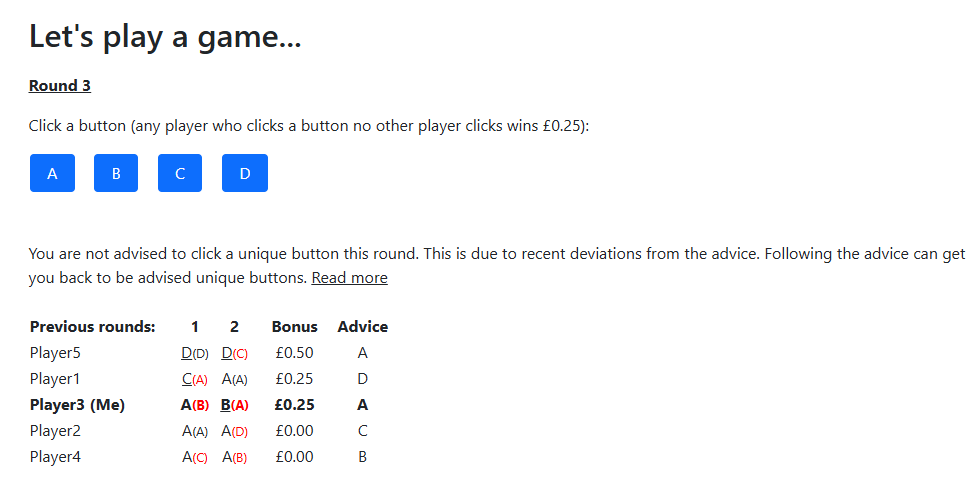
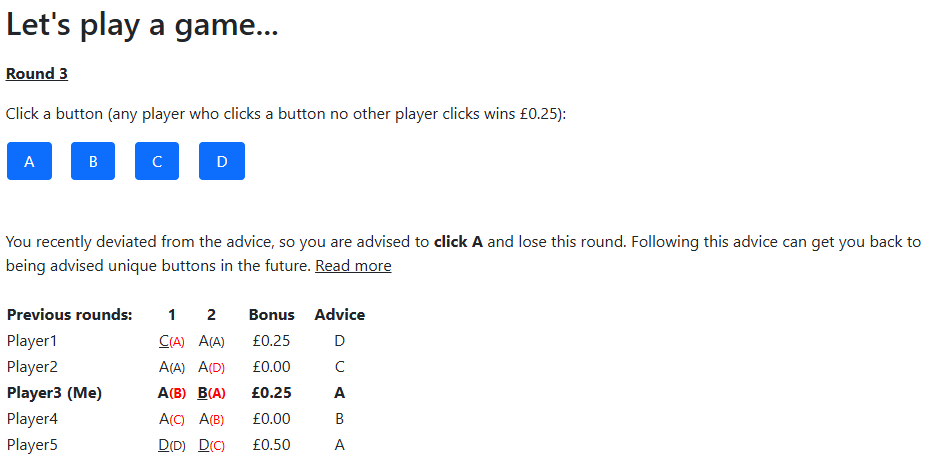
Add turntaking column

diff --git a/Instructions/Instructions.html b/Instructions/Instructions.html
@@ -36,8 +36,19 @@
     In addition, an amount of money is shown next to each player. This reflects the accumulated bonus earned by each player up to (but not including) the current round, which is round 3 now. For example, an accumulated bonus of &pound;0.25 displays for Player 3 because Player 3 has won one round thus far (Player 3 was <i>not</i> the only player to pick A in round 1 but <i>was</i> the only player to pick B in round 2).
 </p>
 <p>
-    Finally, advice will be offered until round 21, as in the picture above, suggesting a button for each player to pick next. The advice is generated by an algorithmic strategy called "turn-taking", which takes the full history of play into account. Why do we display this as advice? In a competition among strategies, which ran many plausible strategies against each other in simulations, "turn-taking" performed very well against all other strategies. Furthermore, among players following this strategy, it achieves the highest possible aggregate payoff and distributes payoffs evenly, minimizing inequality. It performs well against other strategies because it learns from deviations and excludes deviants from its optimization, thereby punishing them. It forgives deviations after a while, which helps overall performance as well.
-Ultimately, your personal success will depend upon what you and the other players choose. In the screenshot above, for example, if all players had followed the advice, then Players 3-5 all would have won round 1.
+    Until round 21, the game will provide <b>advice</b> about which button to choose next for each player, as shown in the image above. The advice is designed to help players take turns winning. Because only up to three players can win in any round, the system recommends different players to win in different rounds. In the example above, Players 3 to 5 were advised to win in round 1. The system keeps track of previous rounds to make sure opportunities to win are shared fairly over time. It also takes into account whether players have followed the advice in the recent past. If a player has ignored the advice, they can improve their standing for future rounds by following the advice and losing for a few rounds. The advice is only a recommendation. Your final outcome will depend on the choices made by you and the other players.
+</p>
+<p>
+    <b>Why do we provide this advice?</b> When we tested several plausible strategies against each other, this one produced the strongest incentives for players to stay with it rather
+than try another strategy. Our research therefore suggests that following this advice is the most effective way to maximize your personal bonus.
+</p>
+<p>
+    <b>How does the advice work in detail? (Read optionally)</b> The system keeps track of two measures: 
+<ul>
+  <li><b>Owed</b>: How much priority you have for a future win. This value decreases when you win.</li>
+  <li><b>Deviated</b>: How closely you have followed previous advice recently. This value decreases when you follow the recommendation.</li>
+</ul>
+In each round, the system recommends winning opportunities to players who have the highest priority and who have generally followed the advice. If you would like more detail, click "Read more" in the round. That will show the calculations used by the system, including all players' current "Owed" and "Deviated" values.
 </p>
 <p>
     <i>Note: The "Previous rounds" table displays information only for the last 8 completed rounds, and rounds with advice will be hidden when advice is no longer offered.</i>

diff --git a/MADChairs/__init__.py b/MADChairs/__init__.py
@@ -19,49 +19,25 @@ class C(BaseConstants):
     QUESTION_TIMER = 120
     PRIZE = cu(0.25)
     ADVICE = {1:'{turntaking}', 21: None}
-    SORT_HISTORY = True
+    SORT_HISTORY = False
     HIDE_CHAT = True
     HIDE_SKIP = True
     ADVICE_INFO = ["""You are the only player advised to <b>click {advice}</b> for this round. It is your turn to benefit from a unique button.""",
-        """You are not advised to click a unique button this round. This is due to recent deviations from the advice. 
-    Following the advice can get you back to be advised unique buttons.""",
-        """You are not advised to click a unique button this round. This is to give others a turn at winning, 
-    but you will be assigned future turns if you follow the advice.""",
-        """The advice algorithm assigns a collision to two players each round, selecting them for exceeding 1 on "deviated" and 
-    otherwise by least "owed". Your "deviated" statistic increases by 1 every time you do not follow the advice, 
-    but it also decreases by 30% each round, so previous deviations become forgotten. 
-    Your "owed" statistic indicates how much the other players owe you; it goes down when you lose and up when you win, 
-    so everyone would take turns winning if everyone followed the advice.<br><br>
-    We chose the advice algorithm for this study in the same way chess machines are developed: 
-    We ran tournaments between the best potential algorithms we could find. 
-    Players who followed the advice given in this study achieved the best outcomes for themselves. 
-    Participants in previous studies won about three times as often when they followed the advice compared to when they did not. 
-    Deviation tends to harm both oneself and any other player with whom one collides.""",
-        """Your "owed" is {owed}. That is what you stand to collect by getting your "deviated" below 1. 
-    Your "deviated" is currently {deviated}, so you would need to lose {penalty} round(s) before
-    the advice will start assigning you what you are owed.<br><br>
-    The advice algorithm assigns a collision to two players each round, selecting them for exceeding 1 on "deviated" and 
-    otherwise by least "owed". Your "deviated" statistic increases by 1 every time you do not follow the advice, 
-    but it also decreases by 30% each round, so previous deviations become forgotten. 
-    Your "owed" statistic indicates how much the other players owe you; it goes down when you lose and up when you win, 
-    so everyone would take turns winning if everyone followed the advice.<br><br>
-    We chose the advice algorithm for this study in the same way chess machines are developed: 
-    We ran tournaments between the best potential algorithms we could find. 
-    Players who followed the advice given in this study achieved the best outcomes for themselves. 
-    Participants in previous studies won about three times as often when they followed the advice compared to when they did not. 
-    Deviation tends to harm both oneself and any other player with whom one collides """,
-        """Your "owed" is {owed}, which is not higher than other players, 
-    but it will go up and theirs will go down if you lose this round and they win.<br><br>
-    The advice algorithm assigns a collision to two players each round, selecting them for exceeding 1 on "deviated" and 
-    otherwise by least "owed". Your "deviated" statistic increases by 1 every time you do not follow the advice, 
-    but it also decreases by 30% each round, so previous deviations become forgotten. 
-    Your "owed" statistic indicates how much the other players owe you; it goes down when you lose and up when you win, 
-    so everyone would take turns winning if everyone followed the advice.<br><br>
-    We chose the advice algorithm for this study in the same way chess machines are developed: 
-    We ran tournaments between the best potential algorithms we could find. 
-    Players who followed the advice given in this study achieved the best outcomes for themselves. 
-    Participants in previous studies won about three times as often when they followed the advice compared to when they did not. 
-    Deviation tends to harm both oneself and any other player with whom one collides."""
+        """You recently deviated from the advice, so you are advised to <b>click {advice}</b> and lose this round. 
+    Following this advice can get you back to being advised unique buttons in the future.""",
+        """You are advised to <b>click {advice}</b> and lose this round. This is to give others a turn at winning.""",
+        """<b>Reminder:</b> How much you are "Owed" decreases when you win; your "Deviated" statistic decreases when you follow the advice. 
+    The advice algorithm assigns unique buttons to whichever players are owed the most and get their "Deviated" below 1, 
+    so everyone would take turns if they followed the advice.""",
+        """You are "Owed" {owed}. That is what you stand to collect by decreasing your "Deviated" from {deviated} to below 1. 
+    You would need to lose the next {penalty} round(s) to achieve that.<br><br>
+    <b>Reminder:</b> How much you are "Owed" decreases when you win; your "Deviated" statistic decreases when you follow the advice. 
+    The advice algorithm assigns unique buttons to whichever players are owed the most and get their "Deviated" below 1, 
+    so everyone would take turns if they followed the advice.""",
+        """You are "Owed" {owed}, which is not yet more than other players.<br><br>
+    <b>Reminder:</b> How much you are "Owed" decreases when you win; your "Deviated" statistic decreases when you follow the advice. 
+    The advice algorithm assigns unique buttons to whichever players are owed the most and get their "Deviated" below 1, 
+    so everyone would take turns if they followed the advice."""
     ]
     KOLKATA_PAISE = False
 class Subsession(BaseSubsession):
@@ -78,6 +54,7 @@ class Player(BasePlayer):
     advice = models.StringField(blank=True)
     soughtInfo = models.BooleanField(initial=False)
     whyDeviate = models.LongStringField(label='Briefly explain why:')
+    turntaking = models.StringField(blank=True)
 def makeMaxHistory(stored=None): 
     def inner():
         nonlocal stored
@@ -258,7 +235,7 @@ def historyHTML(player, summary=False):
                     more = C.ADVICE_INFO[5].replace("{owed}", str(owed)).replace("{deviated}", f"{deviated:.2f}").replace("{penalty}", str(penalty))
         if len(more) > 0:
             historyHTML.extend([readMore, "</div><br><div class='hidden' style='display: none'><div>", more, "</div><br>"])
-            if player.participant.showColumns:
+            if player.participant.showColumns and player.advice != "":
                 historyHTML.extend("</div><input type='checkbox' id='showColumns' checked onclick='boxClicked()'> <label for='showColumns'>Always show Owed and Deviated</label><br><br>")
             else:
                 historyHTML.extend("<input type='checkbox' id='showColumns' onclick='boxClicked()'> <label for='showColumns'>Always show Owed and Deviated</label><br><br></div>")
@@ -274,7 +251,7 @@ def historyHTML(player, summary=False):
         for hist in history:
             historyHTML.extend(["</td><td style='text-align: center;'><b>", str(hist.round_number), "</b>"])
     historyHTML.extend(["</td><td style='width: 60pt; text-align: center;'><b>Bonus</b></td>"])
-    if player.participant.showColumns:
+    if player.participant.showColumns and player.advice != "":
         historyHTML.extend(["<td class='hidden' style='width: 60pt; text-align: center;'><b>Owed</b></td>"])
         historyHTML.extend(["<td class='hidden' style='width: 60pt; text-align: center;'><b>Deviated</b></td><td></td>"])
     else:
@@ -328,7 +305,7 @@ def historyHTML(player, summary=False):
             owed = [str(round(p.in_previous_rounds()[-1].debt * -17.5, 1))]
         if boldRow:
             owed = ["<b>"] + owed + ["</b>"]
-        if not player.participant.showColumns:
+        if not player.participant.showColumns or player.advice == "":
            historyHTML.append(" display: none;")
         historyHTML.extend(["'>", "".join(owed), "</td><td class='hidden' style='width: 60pt; text-align: center;"])
 
@@ -339,7 +316,7 @@ def historyHTML(player, summary=False):
             deviated = [f"{deviated:.2f}"]    
         if boldRow:
             deviated = ["<b>"] + deviated + ["</b>"]
-        if not player.participant.showColumns:
+        if not player.participant.showColumns or player.advice == "":
            historyHTML.append(" display: none;")
         historyHTML.extend(["'>", "".join(deviated), "</td>"])
 
@@ -425,6 +402,7 @@ class MADChairs(Page):
             if player.field_maybe_none(advice) is None:
                 for p in players:
                     p.advice = advice(p) if C.ADVICE else ""
+                    p.turntaking = players[0].participant.turntaking[p.id_in_group]
             robots = set()
             for p in players:
                 if p.participant.robot != "":
